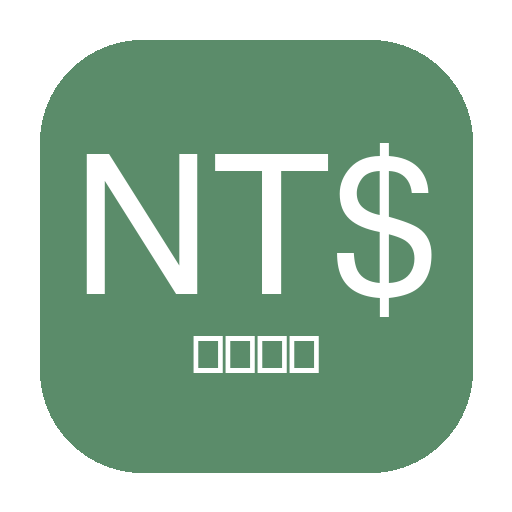
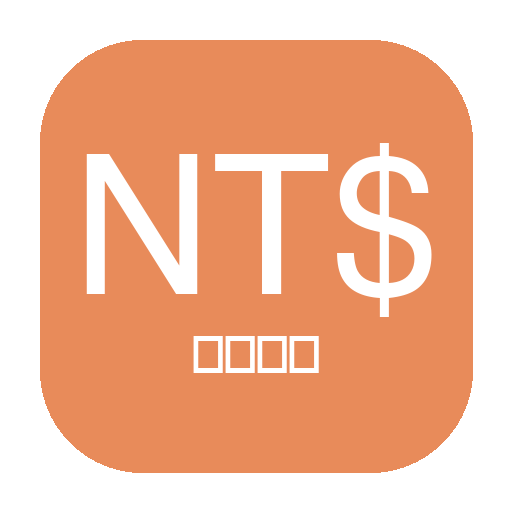
fix: 따뜻한 오렌지 테마로 변경 (#E88B5A)

diff --git a/index.html b/index.html
@@ -6,26 +6,26 @@
 <meta name="apple-mobile-web-app-capable" content="yes">
 <meta name="apple-mobile-web-app-status-bar-style" content="black-translucent">
 <meta name="apple-mobile-web-app-title" content="NTD Helper">
-<meta name="theme-color" content="#5B8C6A">
+<meta name="theme-color" content="#E88B5A">
 <link rel="manifest" href="manifest.json">
 <link rel="apple-touch-icon" href="icon-192.png">
 <title>NTD Cash Helper | 대만 현금 도우미</title>
 <style>
 :root {
-  --tw-red: #5B8C6A;
-  --tw-blue: #3D6B5E;
+  --tw-red: #E88B5A;
+  --tw-blue: #2C6E7A;
   --tw-white: #FFFFFF;
-  --bg: #F7F6F3;
+  --bg: #FAFAF8;
   --card-bg: #FFFFFF;
   --card-shadow: 0 2px 8px rgba(0,0,0,0.06);
-  --border: #E8E5E0;
+  --border: #EAEAEA;
   --text: #2C2C2C;
   --text-sub: #717171;
   --text-light: #A0A0A0;
-  --accent: #5B8C6A;
-  --accent-light: #EDF5F0;
-  --success: #5B8C6A;
-  --success-light: #EDF5F0;
+  --accent: #E88B5A;
+  --accent-light: #FFF3EC;
+  --success: #4CAF82;
+  --success-light: #EDFBF3;
   --radius: 12px;
   --safe-bottom: env(safe-area-inset-bottom, 0px);
 }
@@ -42,7 +42,7 @@ body {
 
 /* -- HEADER -- */
 .header {
-  background: linear-gradient(135deg, #5B8C6A, #4A7A5A);
+  background: linear-gradient(135deg, #E88B5A, #D4764A);
   color: var(--tw-white);
   padding: 16px 20px;
   padding-top: calc(16px + env(safe-area-inset-top, 0px));

diff --git a/sw.js b/sw.js
@@ -1,5 +1,5 @@
 // NTD Cash Helper — Network First Service Worker
-const CACHE_NAME = 'ntd-cash-helper-v10';
+const CACHE_NAME = 'ntd-cash-helper-v11';
 
 self.addEventListener('install', () => self.skipWaiting());
 self.addEventListener('activate', (e) => {
